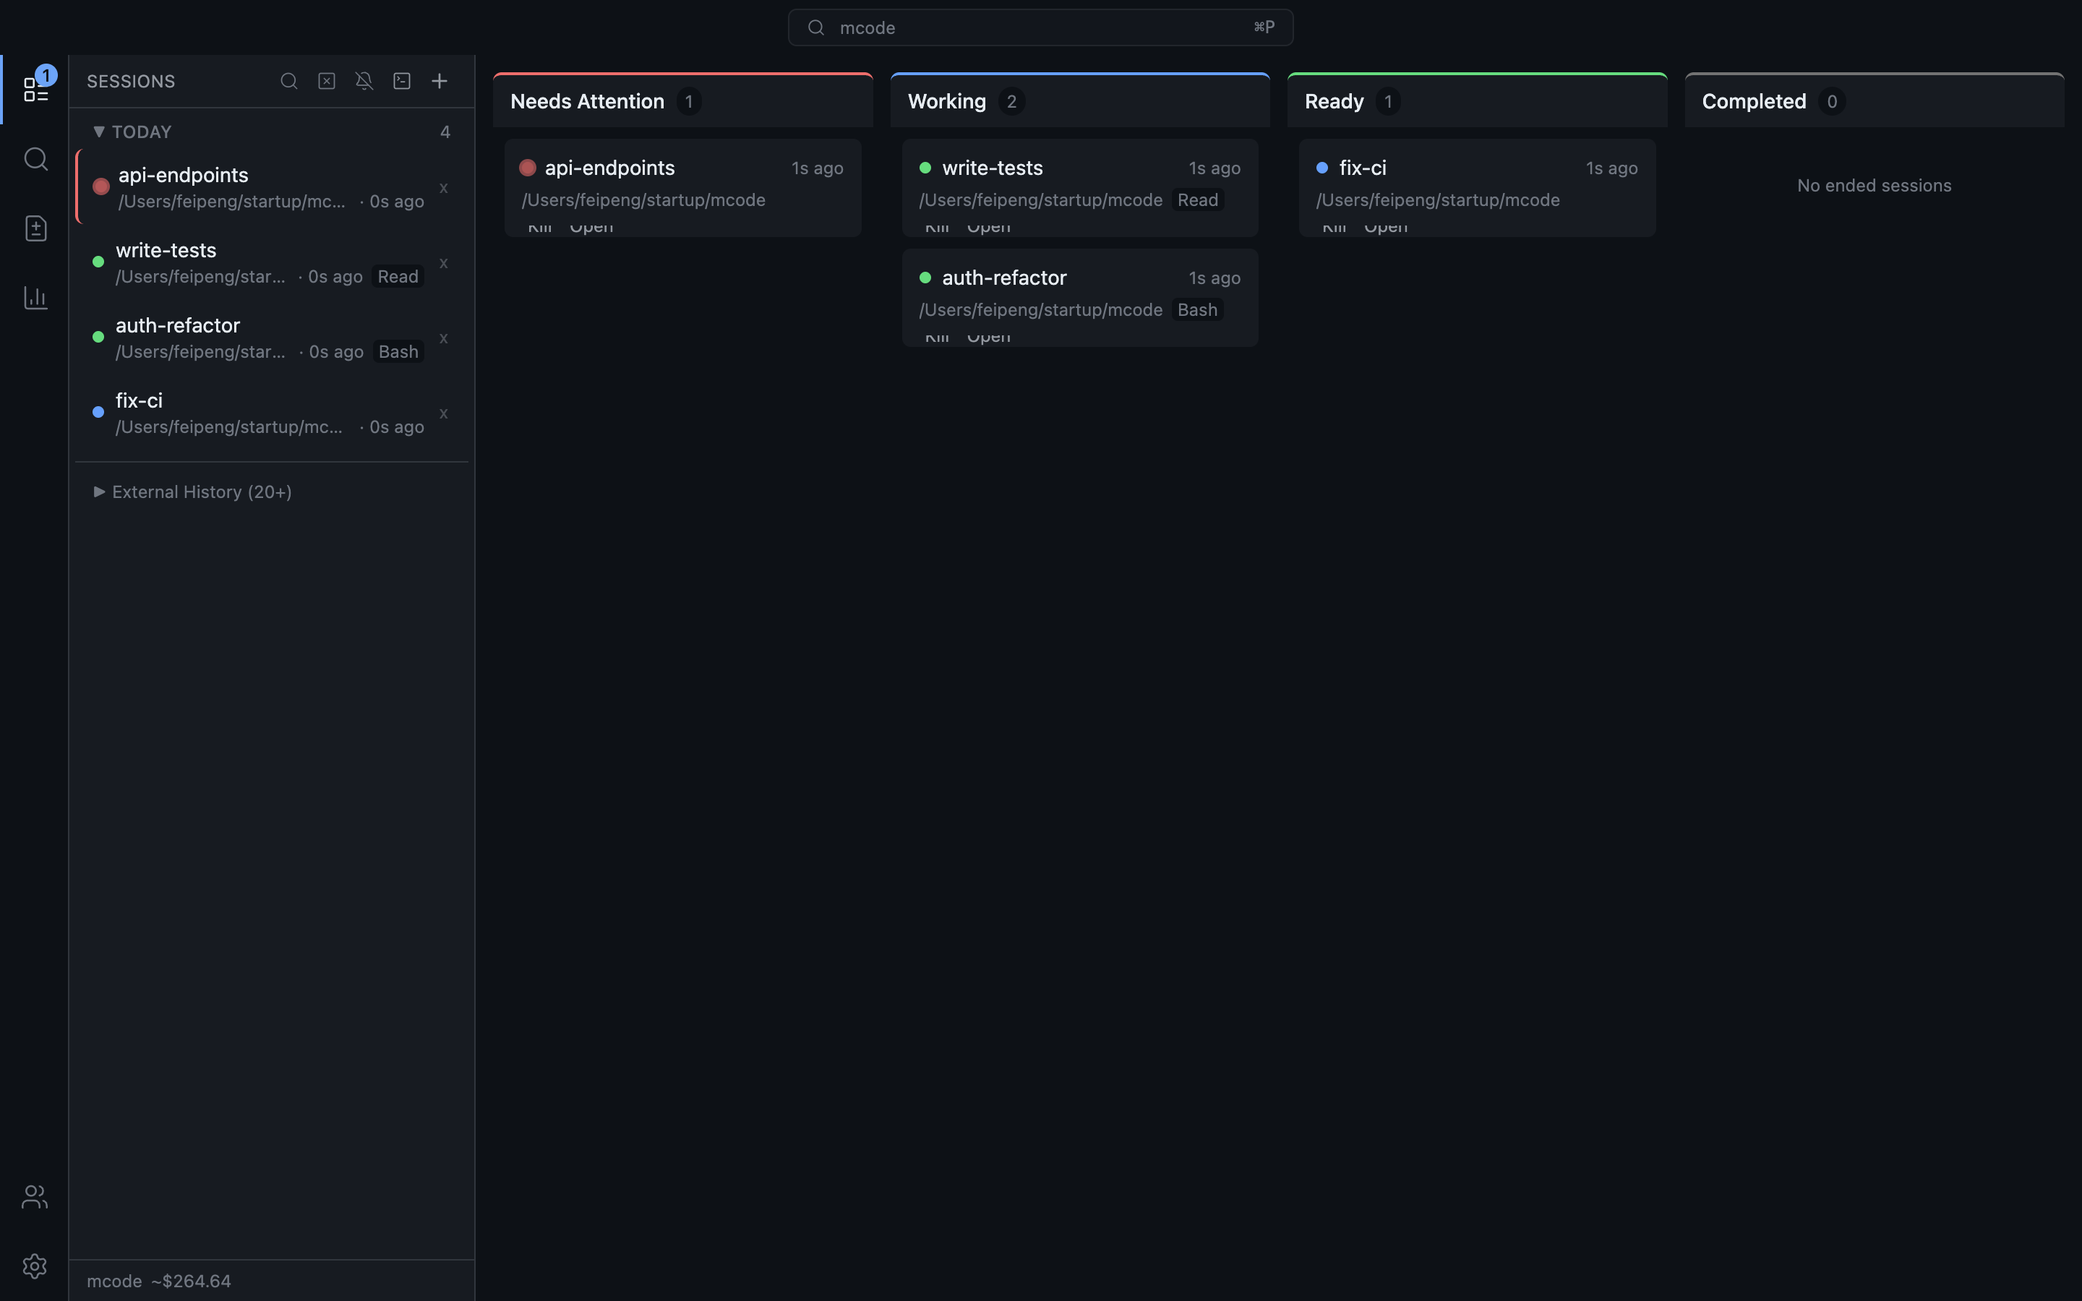
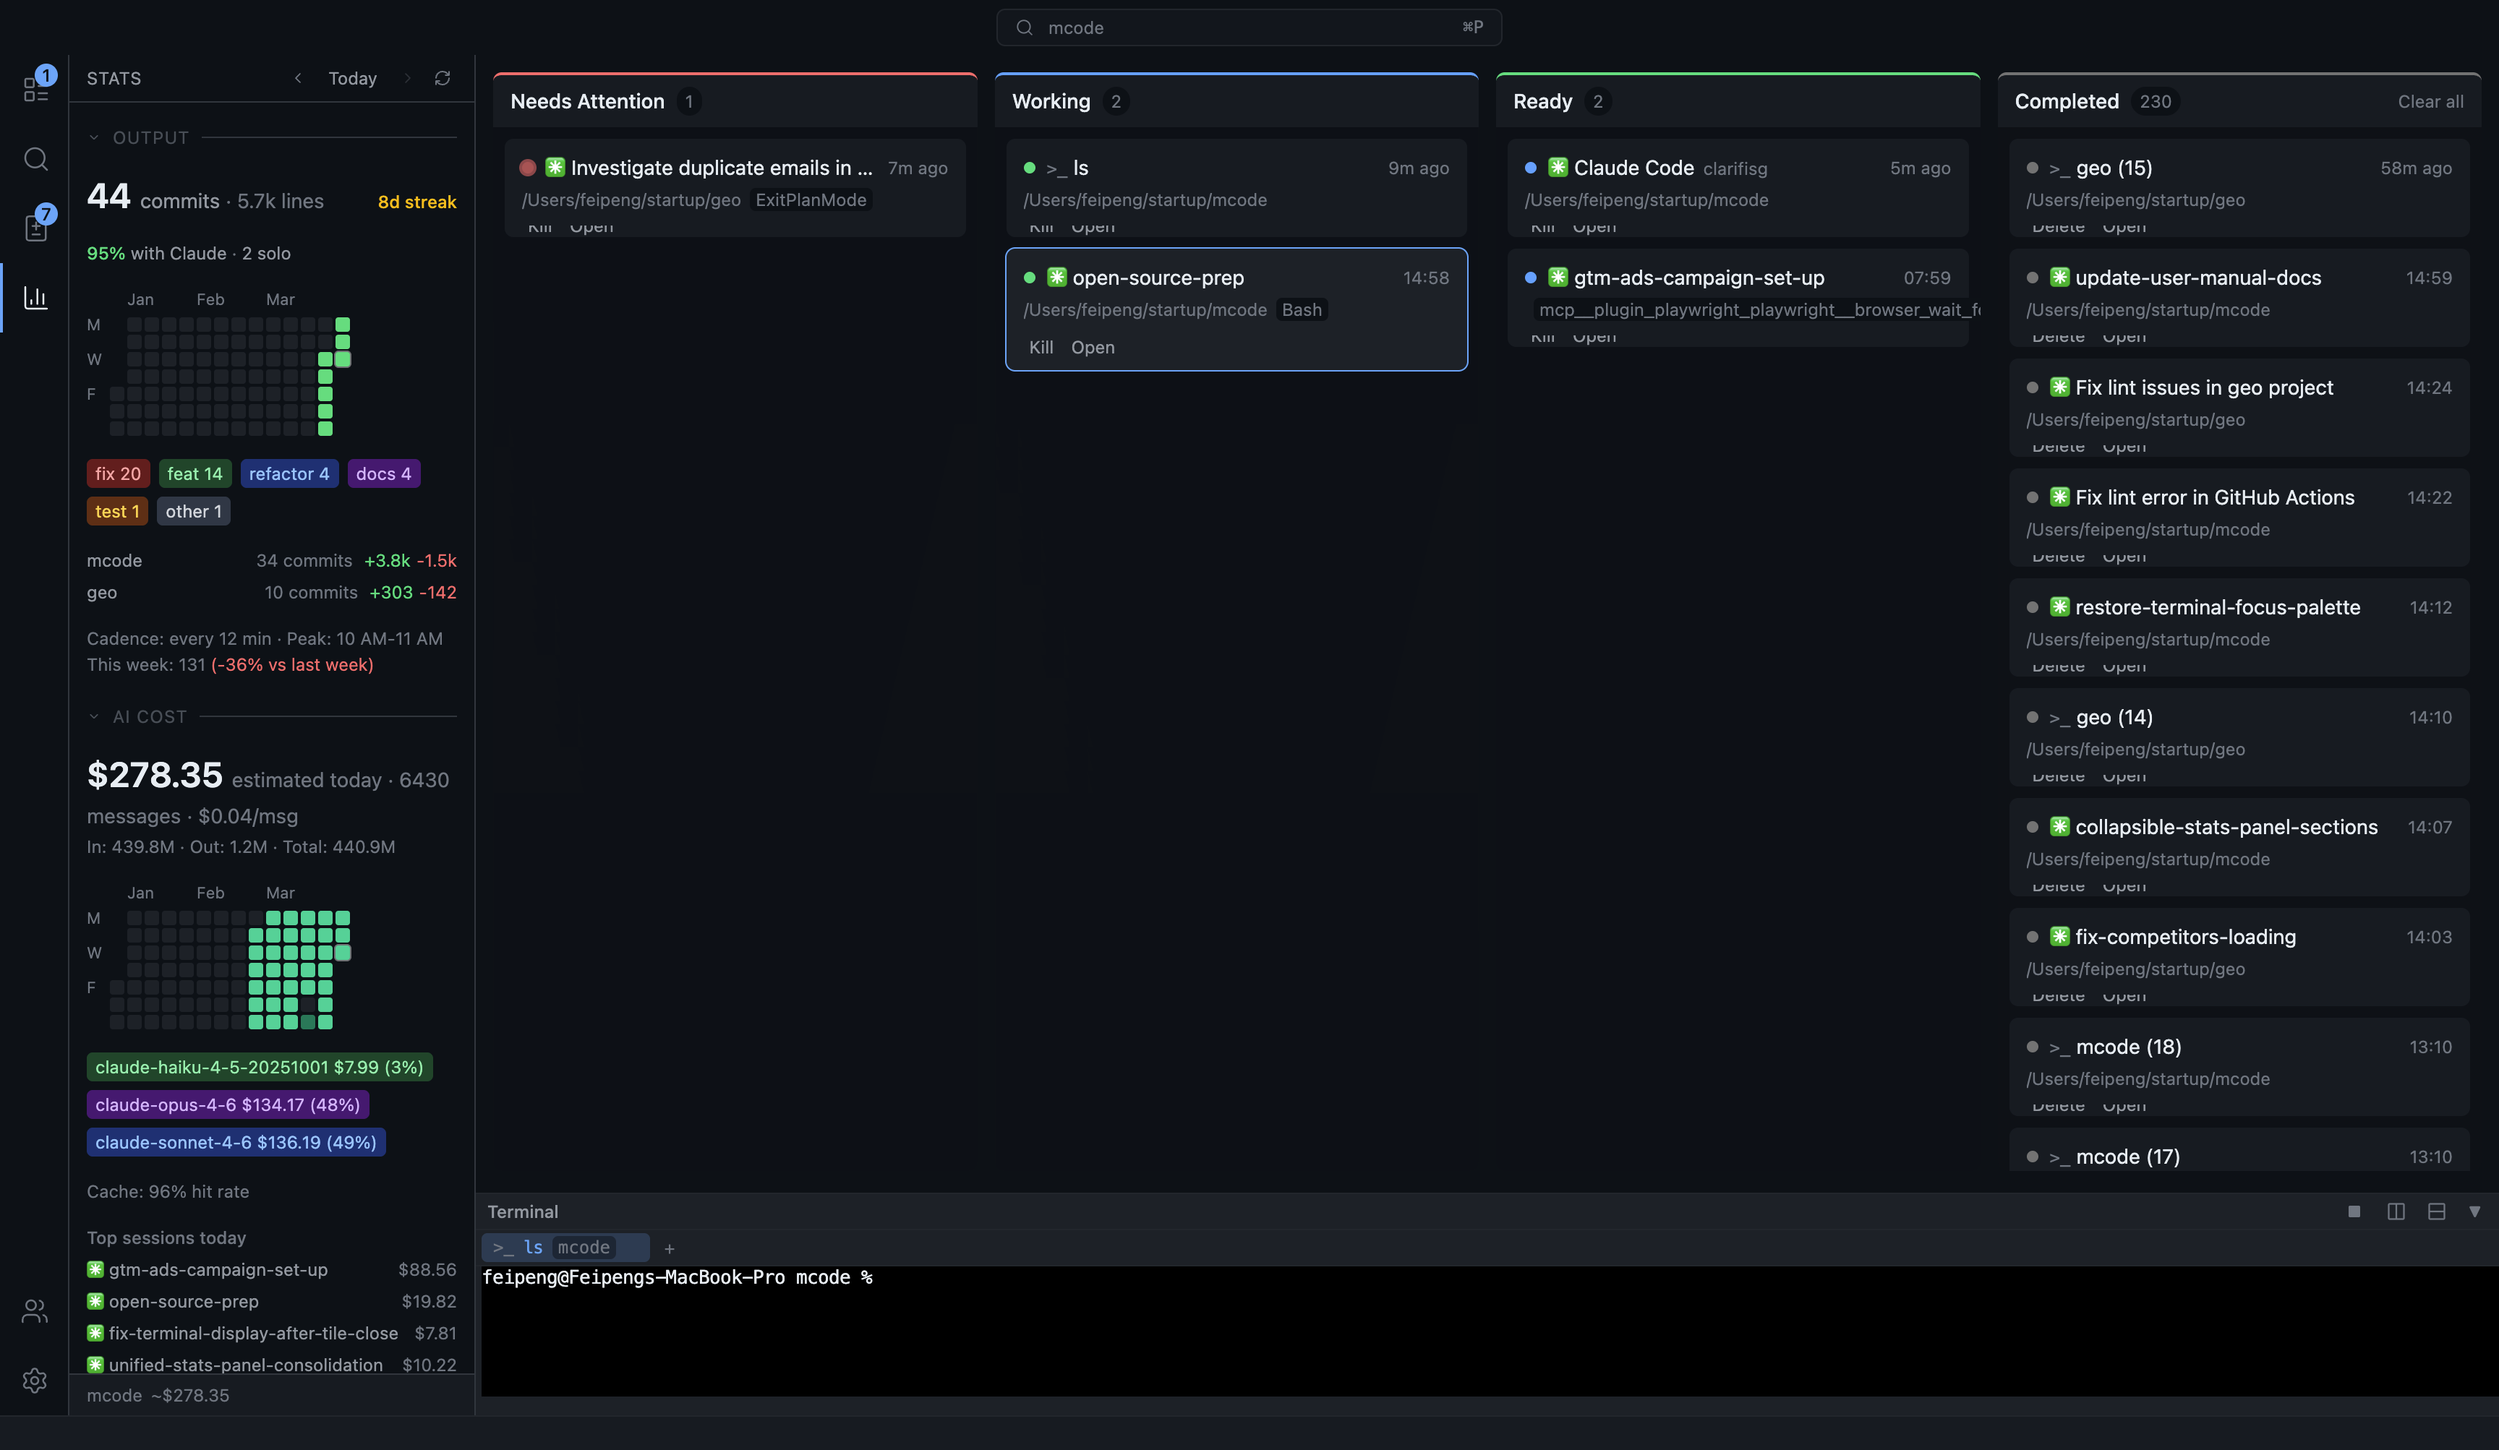
docs: replace screenshots with real production data via MCP
Recaptured all 6 README screenshots against the production build
using real sessions, commits, and token data. Updated
capture-screenshots.ts to target the production MCP server
(no dev-only tools), and added scripts/snap.ts for quick
one-off snapshots.

diff --git a/scripts/capture-screenshots.ts b/scripts/capture-screenshots.ts
@@ -1,6 +1,6 @@
 /**
  * Screenshot capture script for README documentation.
- * Requires the dev app to be running (npm run dev).
+ * Works with the production app (MCP enabled in Settings > Advanced) or the dev app.
  *
  * Usage: npx tsx scripts/capture-screenshots.ts
  */
@@ -12,7 +12,6 @@ import { StreamableHTTPClientTransport } from '@modelcontextprotocol/sdk/client/
 
 const MCP_URL = 'http://127.0.0.1:7532/mcp';
 const OUT_DIR = join(process.cwd(), 'docs', 'screenshots');
-const TEST_CLAUDE = join(process.cwd(), 'tests', 'fixtures', 'claude');
 
 mkdirSync(OUT_DIR, { recursive: true });
 
@@ -80,88 +79,88 @@ async function sleep(ms: number): Promise<void> {
   return new Promise((r) => setTimeout(r, ms));
 }
 
-async function createSession(
-  c: Client_,
-  label: string,
-  overrides: Record<string, unknown> = {},
-): Promise<{ sessionId: string }> {
-  return c.callJson('session_create', {
-    cwd: process.cwd(),
-    command: TEST_CLAUDE,
-    label,
-    ...overrides,
-  });
-}
-
-async function injectHook(c: Client_, sessionId: string, event: string, opts: Record<string, unknown> = {}): Promise<void> {
-  await c.callJson('hook_inject_event', { sessionId, hookEventName: event, ...opts });
-}
-
 // ---------------------------------------------------------------------------
 // Main
 // ---------------------------------------------------------------------------
 
 async function main(): Promise<void> {
   const c = new Client_();
+  const createdSessions: string[] = [];
 
   try {
     console.log('Connecting to MCP server…');
     await c.connect();
     console.log('Connected.\n');
 
-    // Clean slate
-    await c.call('app_reset_test_state');
-    await sleep(500);
-
     // Resize to a good screenshot size
     await c.call('window_resize', { width: 1440, height: 900 });
     await sleep(300);
 
-    // -------------------------------------------------------------------------
-    // 1. Tiling layout — 4 sessions with mixed states
-    // -------------------------------------------------------------------------
-    console.log('Setting up tiling layout…');
-    await c.call('layout_set_view_mode', { mode: 'tiles' });
+    // Ensure sidebar is expanded
+    await c.call('layout_set_sidebar_collapsed', { collapsed: false });
+    await sleep(200);
 
-    const labels = [
-      'auth-refactor',
-      'api-endpoints',
-      'write-tests',
-      'fix-ci',
+    // -------------------------------------------------------------------------
+    // 1. Sessions sidebar — capture historical sessions list first
+    // -------------------------------------------------------------------------
+    console.log('Taking sessions sidebar screenshot…');
+    await c.call('layout_set_view_mode', { mode: 'tiles' });
+    await c.call('layout_remove_all_tiles');
+    await c.call('sidebar_set_session_filter', { query: '' });
+    await c.call('sidebar_switch_tab', { tab: 'sessions' });
+    await sleep(600);
+    save('sessions-sidebar.png', await c.screenshot());
+
+    // -------------------------------------------------------------------------
+    // 2. Stats sidebar
+    // -------------------------------------------------------------------------
+    console.log('\nTaking stats sidebar screenshot…');
+    await c.call('sidebar_switch_tab', { tab: 'stats' });
+    await sleep(600);
+    save('stats-sidebar.png', await c.screenshot());
+
+    // -------------------------------------------------------------------------
+    // 3. Changes sidebar
+    // -------------------------------------------------------------------------
+    console.log('\nTaking changes sidebar screenshot…');
+    await c.call('sidebar_switch_tab', { tab: 'changes' });
+    await sleep(600);
+    save('changes-sidebar.png', await c.screenshot());
+
+    // -------------------------------------------------------------------------
+    // Create real Claude sessions for tiling + kanban screenshots
+    // -------------------------------------------------------------------------
+    console.log('\nCreating sessions for tiling/kanban screenshots…');
+    const sessionDefs = [
+      { label: 'auth-refactor', cwd: process.cwd() },
+      { label: 'api-endpoints', cwd: process.cwd() },
+      { label: 'write-tests', cwd: process.cwd() },
+      { label: 'fix-ci', cwd: process.cwd() },
     ];
 
-    const sessionIds: string[] = [];
-    for (const label of labels) {
-      const s = await createSession(c, label);
-      sessionIds.push(s.sessionId);
-      await sleep(200);
+    for (const def of sessionDefs) {
+      const s = await c.callJson<{ sessionId: string }>('session_create', def);
+      createdSessions.push(s.sessionId);
+      // Add tile immediately so the terminal connects to the PTY and captures output
+      await c.call('layout_add_tile', { sessionId: s.sessionId });
+      await sleep(150);
     }
 
-    // Simulate different states via hook injection
-    const [s1, s2, s3, s4] = sessionIds;
+    // Wait for Claude to initialize and show its startup UI
+    console.log('Waiting for sessions to initialize…');
+    await sleep(4000);
 
-    // s1: active (working)
-    await injectHook(c, s1, 'SessionStart');
-    await injectHook(c, s1, 'PreToolUse', { toolName: 'Bash' });
-
-    // s2: needs attention (permission request)
-    await injectHook(c, s2, 'SessionStart');
-    await injectHook(c, s2, 'PermissionRequest', { toolName: 'Bash' });
-
-    // s3: active
-    await injectHook(c, s3, 'SessionStart');
-    await injectHook(c, s3, 'PreToolUse', { toolName: 'Read' });
-
-    // s4: idle (completed)
-    await injectHook(c, s4, 'SessionStart');
-    await injectHook(c, s4, 'Stop');
-
-    await sleep(800);
-    console.log('Taking tiling layout screenshot…');
+    // -------------------------------------------------------------------------
+    // 4. Tiling layout
+    // -------------------------------------------------------------------------
+    console.log('\nTaking tiling layout screenshot…');
+    await c.call('layout_set_view_mode', { mode: 'tiles' });
+    await c.call('sidebar_switch_tab', { tab: 'sessions' });
+    await sleep(600);
     save('tiling-layout.png', await c.screenshot());
 
     // -------------------------------------------------------------------------
-    // 2. Kanban view
+    // 5. Kanban view
     // -------------------------------------------------------------------------
     console.log('\nSwitching to kanban view…');
     await c.call('layout_set_view_mode', { mode: 'kanban' });
@@ -169,45 +168,20 @@ async function main(): Promise<void> {
     save('kanban-view.png', await c.screenshot());
 
     // Expand one session in kanban
-    await c.call('kanban_expand_session', { sessionId: s1 });
+    await c.call('kanban_expand_session', { sessionId: createdSessions[0] });
     await sleep(500);
     save('kanban-expanded.png', await c.screenshot());
-
-    // -------------------------------------------------------------------------
-    // 3. Commit analytics sidebar
-    // -------------------------------------------------------------------------
-    console.log('\nSwitching to stats sidebar…');
-    await c.call('layout_set_view_mode', { mode: 'tiles' });
-    await c.call('sidebar_switch_tab', { tab: 'stats' });
-    await sleep(500);
-    save('stats-sidebar.png', await c.screenshot());
-
-    // -------------------------------------------------------------------------
-    // 4. Changes/git sidebar
-    // -------------------------------------------------------------------------
-    console.log('\nSwitching to changes sidebar…');
-    await c.call('sidebar_switch_tab', { tab: 'changes' });
-    await sleep(500);
-    save('changes-sidebar.png', await c.screenshot());
-
-    // -------------------------------------------------------------------------
-    // 5. Sessions sidebar (default state)
-    // -------------------------------------------------------------------------
-    console.log('\nSwitching back to sessions sidebar…');
-    await c.call('sidebar_switch_tab', { tab: 'sessions' });
-    await sleep(500);
-    save('sessions-sidebar.png', await c.screenshot());
-
-    // -------------------------------------------------------------------------
-    // Clean up
-    // -------------------------------------------------------------------------
-    for (const id of sessionIds) {
-      try { await c.call('session_kill', { sessionId: id }); } catch { /* best-effort */ }
-    }
 
     console.log('\nDone. Screenshots saved to docs/screenshots/');
 
   } finally {
+    // Clean up created sessions and tiles
+    console.log('\nCleaning up…');
+    for (const id of createdSessions) {
+      try { await c.call('session_kill', { sessionId: id }); } catch { /* best-effort */ }
+    }
+    try { await c.call('layout_remove_all_tiles'); } catch { /* best-effort */ }
+
     await c.disconnect();
   }
 }

diff --git a/scripts/snap.ts b/scripts/snap.ts
@@ -1,0 +1,23 @@
+import { writeFileSync } from 'node:fs';
+import { join } from 'node:path';
+import { Client } from '@modelcontextprotocol/sdk/client/index.js';
+import { StreamableHTTPClientTransport } from '@modelcontextprotocol/sdk/client/streamableHttp.js';
+
+const [,, name = 'snapshot.png'] = process.argv;
+
+async function main() {
+  const transport = new StreamableHTTPClientTransport(new URL('http://127.0.0.1:7532/mcp'));
+  const client = new Client({ name: 'snap', version: '0.1.0' });
+  await client.connect(transport);
+  const r = await client.callTool({ name: 'window_screenshot', arguments: {} }) as any;
+  const img = r.content?.find((c: any) => c.type === 'image');
+  if (img?.data) {
+    const out = join(process.cwd(), 'docs', 'screenshots', name);
+    writeFileSync(out, Buffer.from(img.data, 'base64'));
+    console.log(`saved: docs/screenshots/${name}`);
+  } else {
+    console.error('no image', r);
+  }
+  await client.close();
+}
+main().catch(e => { console.error(e); process.exit(1); });
